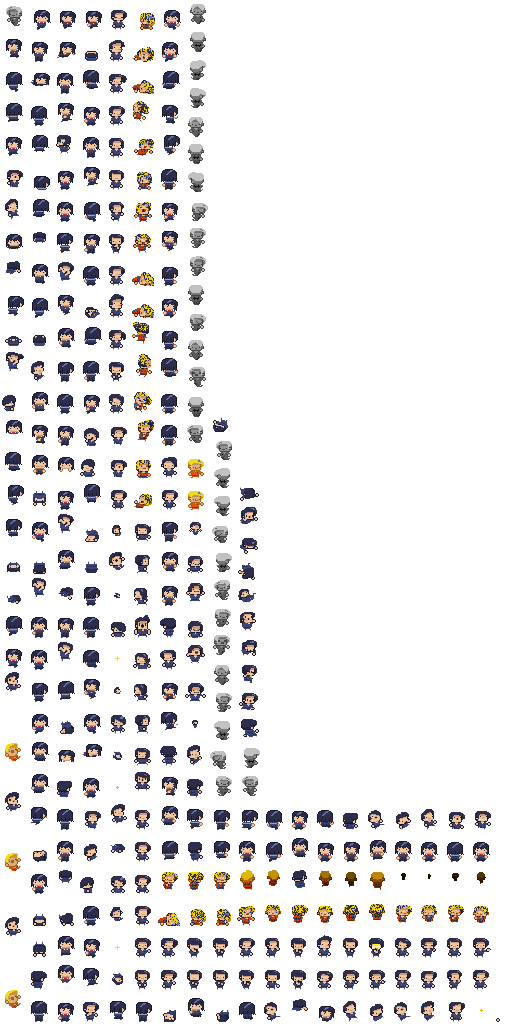
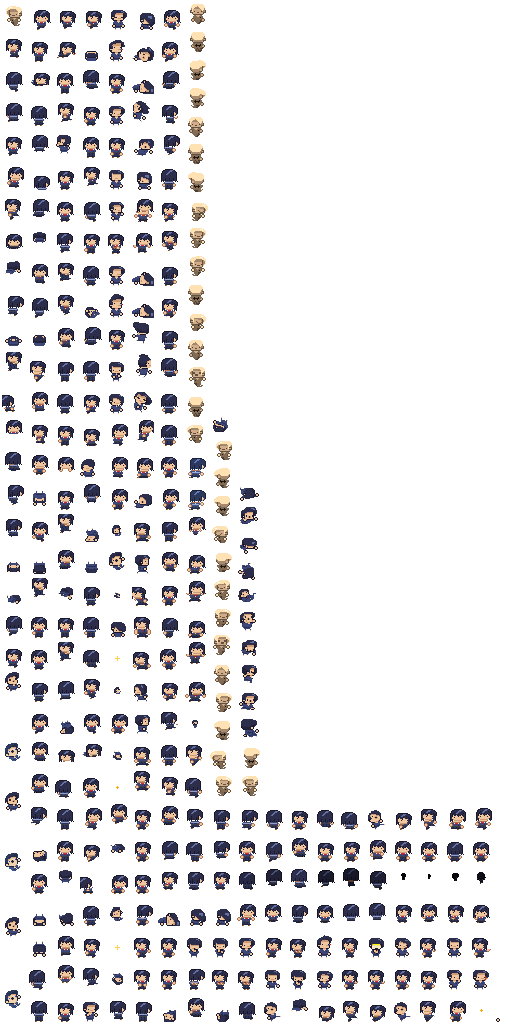
Sukeban: heads and uniform on the other upright clips; fades and lit frames
build_sheet.py rebuilds the upright frames of table kicks, item get, jetpack, doorway,
chest, spin, the start of death and the Breach idles (by the clip's facing, two eyes
for front views). Frames' colors are snapped to Convict's palette first: noisy ones,
darkened (doorway, per pixel by hue) and lit (petting) ones, the shift redone on hers.
The smoke test saves a screenshot of the Breach.

diff --git a/port/mods/Sukeban/tools/build_sheet.py b/port/mods/Sukeban/tools/build_sheet.py
@@ -168,6 +168,178 @@ DIRECTIONS = {
 FACING_FRONT = {"front", "front34"}
 # Dodges: the upright first and last frames get a head, and the crouch while the face shows; the roll is recolored.
 DODGE_ENDS = {"dodge": "front", "dodge_bw": "back", "dodge_left": "front34", "dodge_left_bw": "back34"}
+# The other clips: a head goes on the frames where he stands upright and faces as the clip says (two eyes for front
+# views, none for back views). Not spit_out (the Tarnisher spits him out lying down). The Breach's smoking and lighter idles keep his poses until hers are designed: the
+# lighter's flame has his hair's colors.
+OTHER_CLIPS = {
+    "item_get": "front34", "pet": "front34",
+    "tablekick_right": "front34", "tablekick_right_hand": "front34", "tablekick_right_twohands": "front34",
+    "tablekick_down": "front", "tablekick_down_hand": "front", "tablekick_down_twohands": "front",
+    "tablekick_up": "back", "tablekick_up_twohands": "back",
+    "pitfall_return": "front", "chest_recover": "front", "spinfall": "front",
+    # falling over: only while still facing us ("!": no back view instead)
+    "death": "front!", "death_shot": "front!", "death_coop": "front!",
+    "jetpack_down": "front", "jetpack_down_hand": "front", "jetpack_up": "back",
+    "jetpack_right": "front34", "jetpack_right_hand": "front34", "jetpack_right_bw": "back34",
+    "doorway": "back",
+    "select_idle": "front34", "select_wind": "front34", "select_wind_hair": "front34", "select_choose": "front34",
+    "select_crossarms": "front34", "select_crossarms_idle": "front34", "select_crossarms_out": "front34",
+    "select_crossarms_idle_kick": "front34", "select_trash": "front34",
+}
+BACK_OF = {"front": "back", "front34": "back34"}
+
+# His palette, for snapping the frames' slightly-off colors (compression noise) and the darkened ones (doorway).
+CONVICT = [C_HAIR, C_HAIR_SHADE, C_DARK, C_SHINE, C_HAIR_DARK2, C_SUIT, C_SUIT_DARK, C_MARK, C_SKIN, C_SKIN_SHADE,
+           C_EYE, C_BLACK]
+
+
+def best_match(rgb):
+    """(his color, brightness factor, error) closest to rgb as k * color."""
+    best = None
+    for c in CONVICT:
+        cc = sum(v * v for v in c)
+        k = sum(a * b for a, b in zip(rgb, c)) / cc if cc else 0.0
+        k = max(0.0, min(1.1, k))
+        err = sum((a - k * b) ** 2 for a, b in zip(rgb, c)) ** 0.5
+        if best is None or err < best[2]:
+            best = (c, k, err)
+    return best
+
+
+def nearest(rgb):
+    return min(CONVICT, key=lambda c: sum((x - y) ** 2 for x, y in zip(rgb, c)))
+
+
+def dist(a, b):
+    return sum((x - y) ** 2 for x, y in zip(a, b)) ** 0.5
+
+
+def median(values):
+    values = sorted(values)
+    return values[len(values) // 2] if values else 0
+
+
+def normalize(im):
+    """(frame in his exact colors, how the frame's colors were shifted). Frames come darkened (the doorway fades
+    out: his color times k) or lit (petting: his color plus an offset); whichever fits better is undone here and
+    redone on her frame by shift()."""
+    px = [im.getpixel((x, y))[:3] for y in range(im.height) for x in range(im.width)
+          if im.getpixel((x, y))[3] and im.getpixel((x, y))[:3] != C_BLACK]
+    if not px:
+        return im, ("mul", 1.0)
+    # darkened: one factor for the whole frame (per pixel, a darkened yellow passes for his dark brown)
+    k = median([best_match(c)[1] for c in px if best_match(c)[2] < 24]) or 1.0
+    if k <= 0.97:
+        def cost(f):
+            return sum(min(40.0, min(dist(c, tuple(f * v for v in pc)) for pc in CONVICT)) for c in px)
+        k = min((f / 50 for f in range(5, 50)), key=cost)
+    k = 1.0 if k > 0.97 else k
+    err_mul = median([dist(tuple(v / k for v in c), nearest(tuple(v / k for v in c))) for c in px])
+    # lit: one offset per channel
+    o = (0, 0, 0)
+    for _ in range(3):
+        diffs = [tuple(v - w for v, w in zip(c, nearest(tuple(v - d for v, d in zip(c, o))))) for c in px]
+        o = tuple(median([d[i] for d in diffs]) for i in range(3))
+    err_add = median([dist(tuple(v - d for v, d in zip(c, o)), nearest(tuple(v - d for v, d in zip(c, o)))) for c in px])
+    # an offset only lights a frame up, blue included (his colors have none: an offset without it is a fade the
+    # factor describes, wrongly fitted)
+    lit = min(o) >= -6 and o[2] >= 6
+    mode = ("mul", k) if err_mul <= err_add or not lit else ("add", o)
+    if mode == ("add", (0, 0, 0)):
+        mode = ("mul", 1.0)
+
+    def undo(c):
+        if mode[0] == "mul":
+            return tuple(min(255, round(v / mode[1]))for v in c)
+        return tuple(max(0, min(255, v - d)) for v, d in zip(c, mode[1]))
+
+    out = im.copy()
+    for y in range(im.height):
+        for x in range(im.width):
+            p = im.getpixel((x, y))
+            if not p[3]:
+                continue
+            q = undo(p[:3])
+            n = nearest(q)
+            if dist(q, n) <= 30:
+                out.putpixel((x, y), n + (p[3],))
+    return out, mode
+
+
+def recolor_faded(im):
+    """A frame fading out unevenly (the doorway darkens it from one side): each pixel by its own hue - his color
+    with the closest RGB direction - keeping its own brightness."""
+    colored = [c for c in CONVICT if c not in (C_BLACK, C_SHINE, C_MARK)]
+    out = im.copy()
+    for y in range(im.height):
+        for x in range(im.width):
+            p = im.getpixel((x, y))
+            if not p[3] or p[:3] == C_BLACK:
+                continue
+            n = sum(v * v for v in p[:3]) ** 0.5
+            if n < 1:
+                continue
+            c = max(colored, key=lambda c: sum(a * b for a, b in zip(p[:3], c)) / (n * sum(v * v for v in c) ** 0.5))
+            k = n / sum(v * v for v in c) ** 0.5
+            her = RECOLOR[c]
+            out.putpixel((x, y), tuple(max(0, min(255, round(v * k))) for v in her) + (p[3],))
+    return out
+
+
+def shift(im, mode):
+    """Redoes normalize()'s shift on her frame."""
+    if mode == ("mul", 1.0):
+        return im
+    out = im.copy()
+    for y in range(im.height):
+        for x in range(im.width):
+            p = im.getpixel((x, y))
+            if p[3]:
+                if mode[0] == "mul":
+                    c = tuple(round(v * mode[1]) for v in p[:3])
+                else:
+                    c = tuple(max(0, min(255, v + d)) for v, d in zip(p[:3], mode[1]))
+                out.putpixel((x, y), c + (p[3],))
+    return out
+
+
+def eye_count(im):
+    """Separate clusters of his eye color."""
+    eyes = set(pixels_of(im, {C_EYE}))
+    n = 0
+    while eyes:
+        stack = [eyes.pop()]
+        n += 1
+        while stack:
+            x, y = stack.pop()
+            for q in ((x + 1, y), (x - 1, y), (x, y + 1), (x, y - 1)):
+                if q in eyes:
+                    eyes.discard(q)
+                    stack.append(q)
+    return n
+
+
+def upright(im):
+    """His full-size head above his body (not shrunk into a pit, not lying down)."""
+    box = head_box(im)
+    suit = pixels_of(im, SUIT_COLORS)
+    if box is None or not suit:
+        return False
+    x0, y0, x1, y1 = box
+    return x1 - x0 >= 9 and y1 <= min(y for _, y in suit) + 1
+
+
+def direction_for(im, facing):
+    strict = facing.endswith("!")
+    facing = facing.rstrip("!")
+    if not upright(im):
+        return None
+    eyes = eye_count(im)
+    if facing in FACING_FRONT:
+        if eyes == 2:
+            return facing
+        return BACK_OF[facing] if eyes == 0 and not strict else None
+    return facing if eyes == 0 else None
 
 
 def pixels_of(im, colors):
@@ -360,6 +532,13 @@ def main(argv):
         im = atlas.crop(d.rect(*atlas.size))
         return im.transpose(Image.Transpose.ROTATE_90) if d.flipped else im
 
+    def build(sprite_id, direction):
+        raw = frame(defs[sprite_id])
+        src, mode = normalize(raw)
+        if direction is None and mode[0] == "mul" and mode[1] < 1.0:
+            return recolor_faded(raw)
+        return shift(rebuild(src, direction, refs) if direction else recolor(src), mode)
+
     refs = {}
     for direction, (ref_name, art) in HEADS.items():
         rows = art.strip("\n").split("\n")
@@ -372,19 +551,26 @@ def main(argv):
         for clip in names:
             for sprite_id, _ in clips[clip]:
                 if sprite_id not in done:
-                    done[sprite_id] = rebuild(frame(defs[sprite_id]), direction, refs)
+                    done[sprite_id] = build(sprite_id, direction)
     for clip, direction in DODGE_ENDS.items():
         frames = clips[clip]
         for k, (sprite_id, _) in enumerate(frames):
-            src = frame(defs[sprite_id])
+            src, _ = normalize(frame(defs[sprite_id]))
             # the upright ends always; in between where he still faces us with both eyes (crouching into the roll)
             facing = direction in FACING_FRONT and len(pixels_of(src, {C_EYE})) >= 2
             if sprite_id not in done and (k in (0, len(frames) - 1) or facing):
-                done[sprite_id] = rebuild(src, direction, refs)
+                done[sprite_id] = build(sprite_id, direction)
+    for clip, facing in OTHER_CLIPS.items():
+        for sprite_id, _ in clips[clip]:
+            if sprite_id not in done:
+                src, _ = normalize(frame(defs[sprite_id]))
+                direction = direction_for(src, facing)
+                if direction:
+                    done[sprite_id] = build(sprite_id, direction)
     for d in defs:
         if not d.uvs:
             continue
-        im = done.get(d.index) or recolor(frame(d))
+        im = done.get(d.index) or build(d.index, None)
         if d.flipped:
             im = im.transpose(Image.Transpose.ROTATE_270)
         sheet.paste(im, d.rect(*atlas.size)[:2])
@@ -393,9 +579,10 @@ def main(argv):
 
     if preview:
         os.makedirs(preview, exist_ok=True)
-        rows = [c for names in DIRECTIONS.values() for c in names] + ["dodge", "dodge_bw", "dodge_left", "dodge_left_bw"]
-        sc, cw, ch = 4, 26 * 4, 30 * 4
-        img = Image.new("RGBA", (9 * cw, len(rows) * ch), (58, 52, 50, 255))
+        rows = [c for names in DIRECTIONS.values() for c in names] + list(DODGE_ENDS) + list(OTHER_CLIPS) + [
+            "select_light", "select_smoke_idle", "pitfall", "pitfall_down", "timefall", "ghost_idle_front", "slide_right"]
+        sc, cw, ch = 4, 26 * 4, 58 * 4
+        img = Image.new("RGBA", (25 * cw, len(rows) * ch), (58, 52, 50, 255))
         for r, clip in enumerate(rows):
             for k, (sprite_id, _) in enumerate(clips[clip]):
                 d = defs[sprite_id]

diff --git a/port/UnityAssets/EtgModSmoke/SmokeCharacters.cs b/port/UnityAssets/EtgModSmoke/SmokeCharacters.cs
@@ -350,6 +350,8 @@ namespace EtgModSmoke
                 s.status = "failed";
                 yield break;
             }
+            ScreenCapture.CaptureScreenshot(System.IO.Path.Combine(m_reportDir, "breach.png"));
+            s.notes.Add("screenshot: breach.png");
             Dictionary<string, FoyerCharacterSelectFlag> flags = new Dictionary<string, FoyerCharacterSelectFlag>();
             foreach (FoyerCharacterSelectFlag f in UnityEngine.Object.FindObjectsOfType<FoyerCharacterSelectFlag>())
             {

diff --git a/port/README.md b/port/README.md
@@ -274,8 +274,12 @@ resources), on Convict's frames; the past and the unlock come later.
   `tools/build_sheet.py` makes it from the ripped collection: all frames recolored to her palette; idle and run in
   four directions (with the hand variants) and the dodges' upright / face-on frames get one of four drawn heads
   (dark bob, design v4) placed by his eyes or hair, a cropped sailor top with scarf, a belt raised three rows and a
-  long skirt over the legs, geta. The rolling dodge frames and the rest (Breach idles, death, pitfall...) are only
-  recolored so far. `tools/extract_frames.py` cuts a collection into PNGs for reference.
+  long skirt over the legs, geta. So do the upright frames of the other clips facing the way the clip says
+  (table kicks, item get, jetpack, doorway, chest, spin, the start of death, the Breach idles). Frames come with
+  slightly-off colors, darkened (doorway: per pixel by hue then) or lit (petting): they are snapped to his palette
+  first and the shift is redone on hers. Recolored only: the rolling dodge frames, lying / shrinking frames
+  (pitfall, spit_out), ghosts, and the Breach's smoking / lighter idles (his poses until hers are designed).
+  `tools/extract_frames.py` cuts a collection into PNGs for reference.
 
 - **Ninth Inning** (`skb:ninth_inning`): a copy of gun 616, the nailed Casey that the #NAILBAT synergy ("Careful
   Iteration": Casey + one of guns 26, 143 / items 457, 118) switches to, without Casey's +2 curse. Charged swings reflect bullets (Casey's
